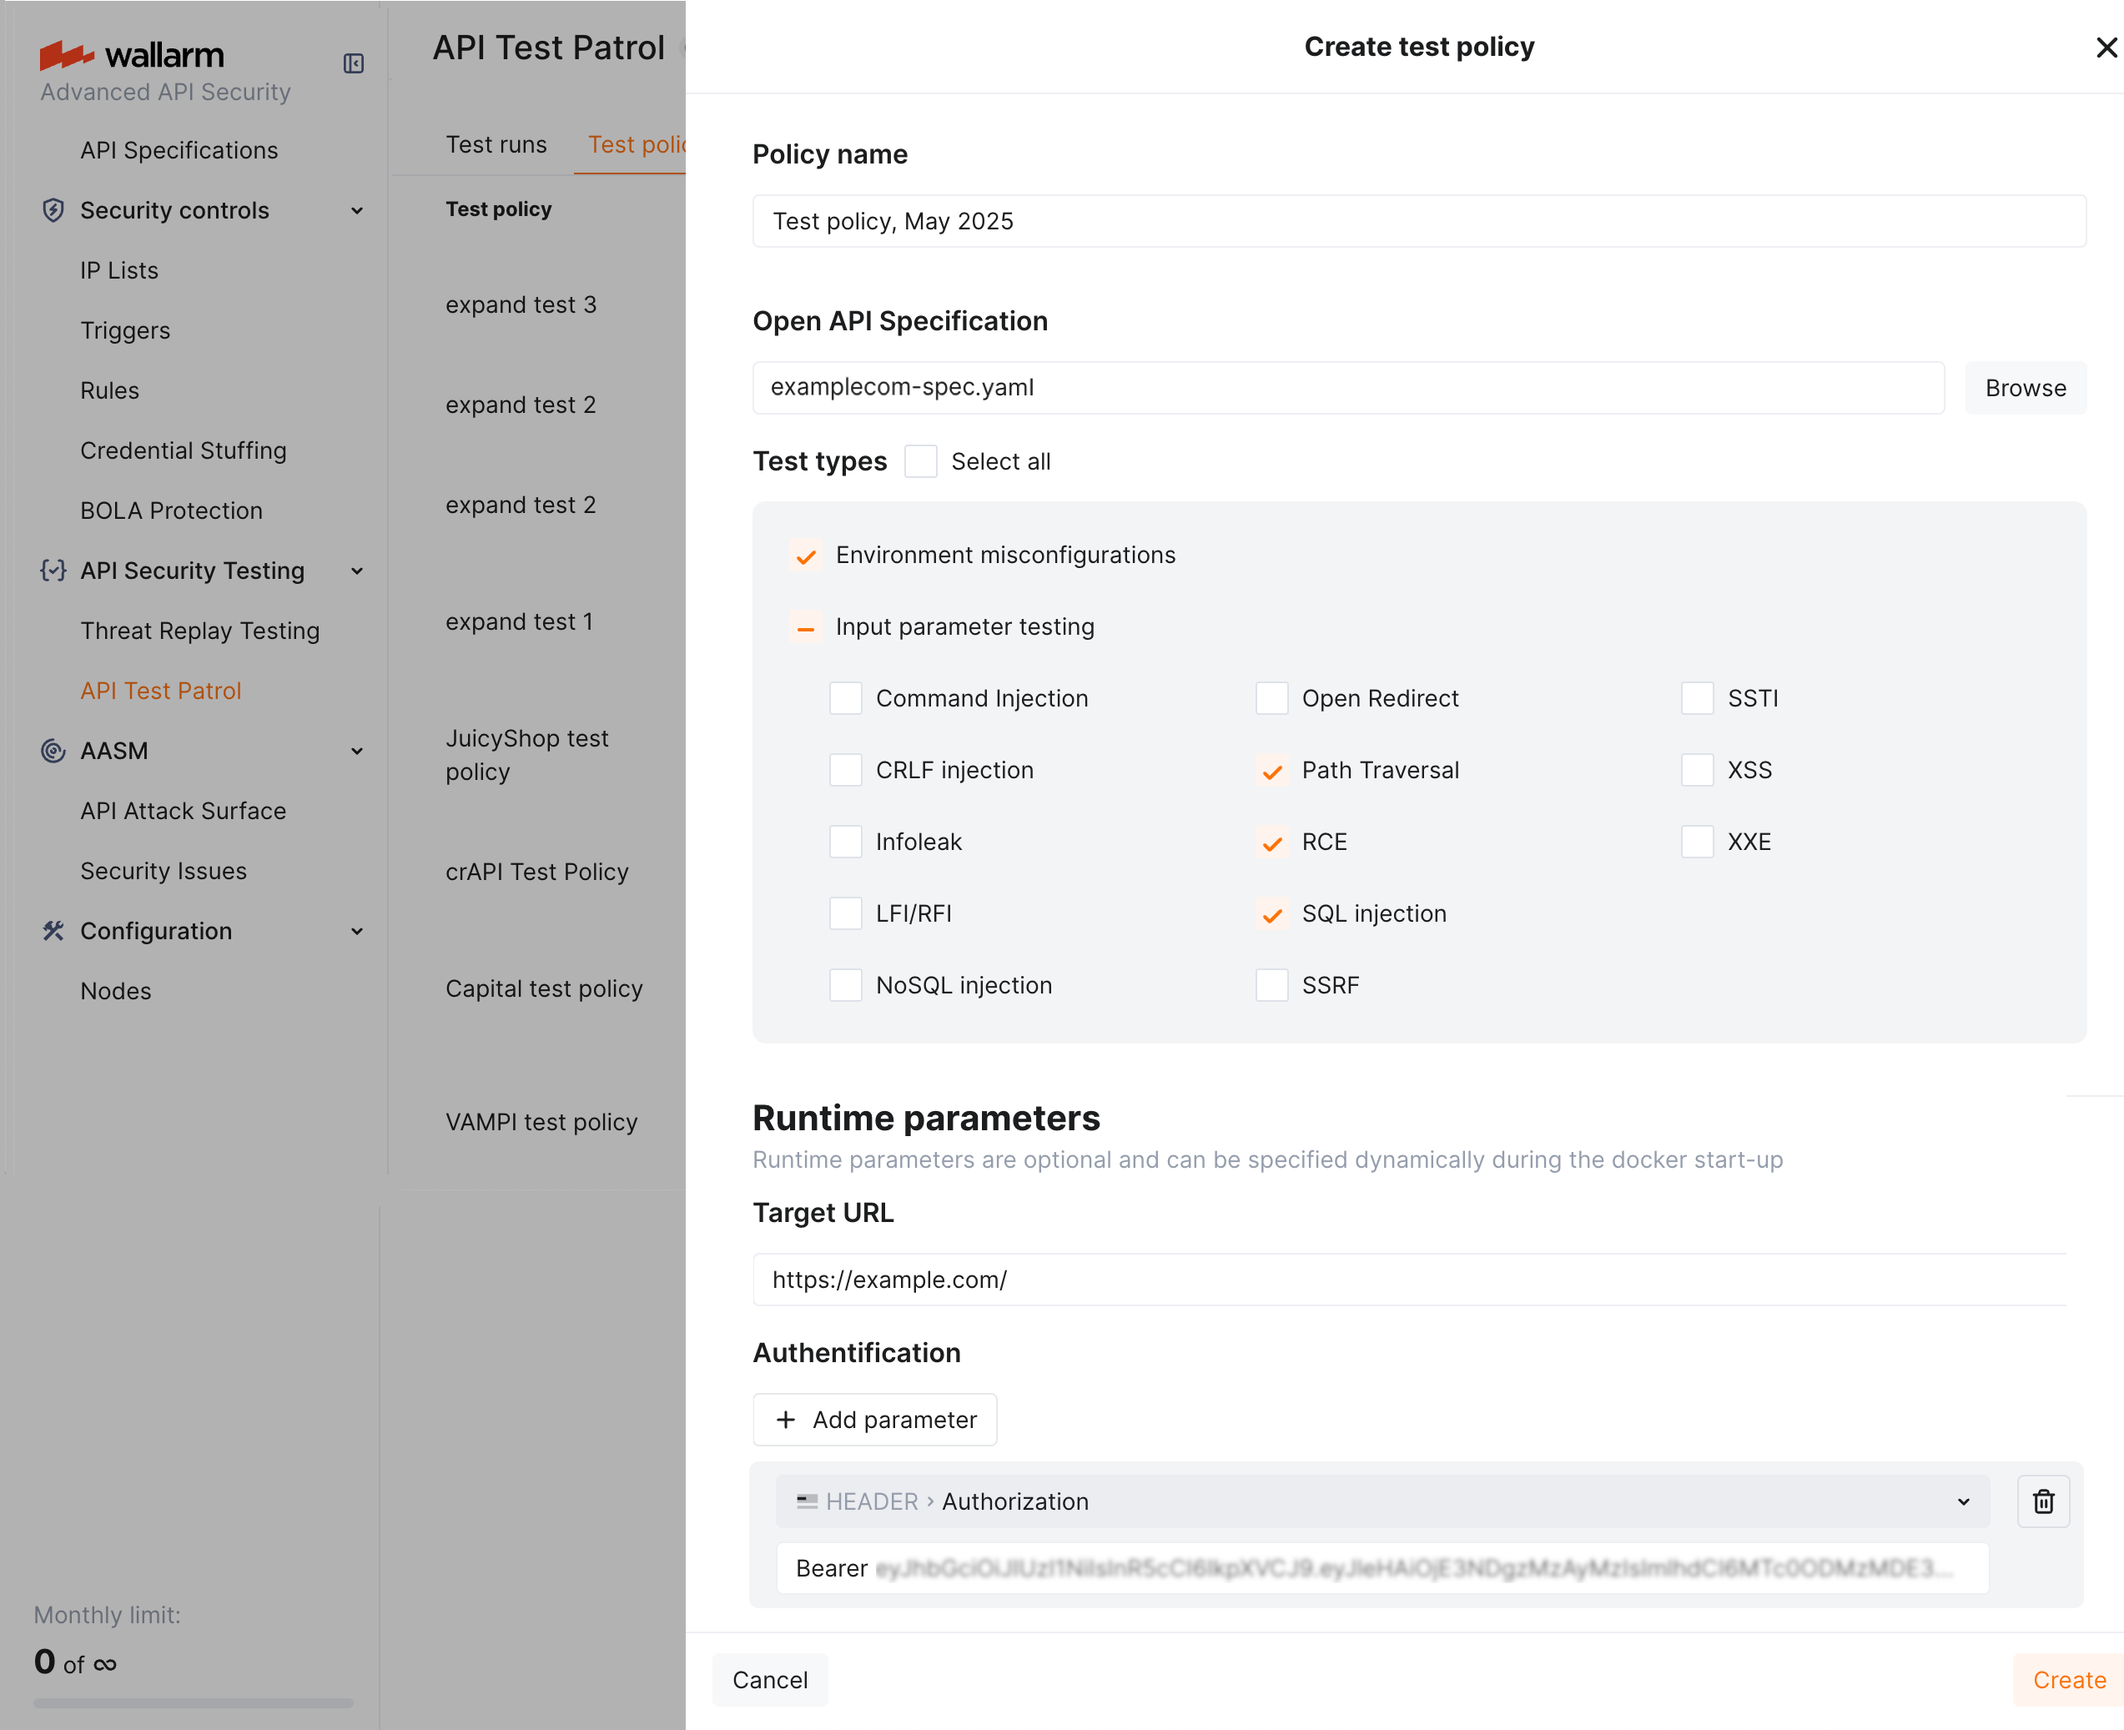
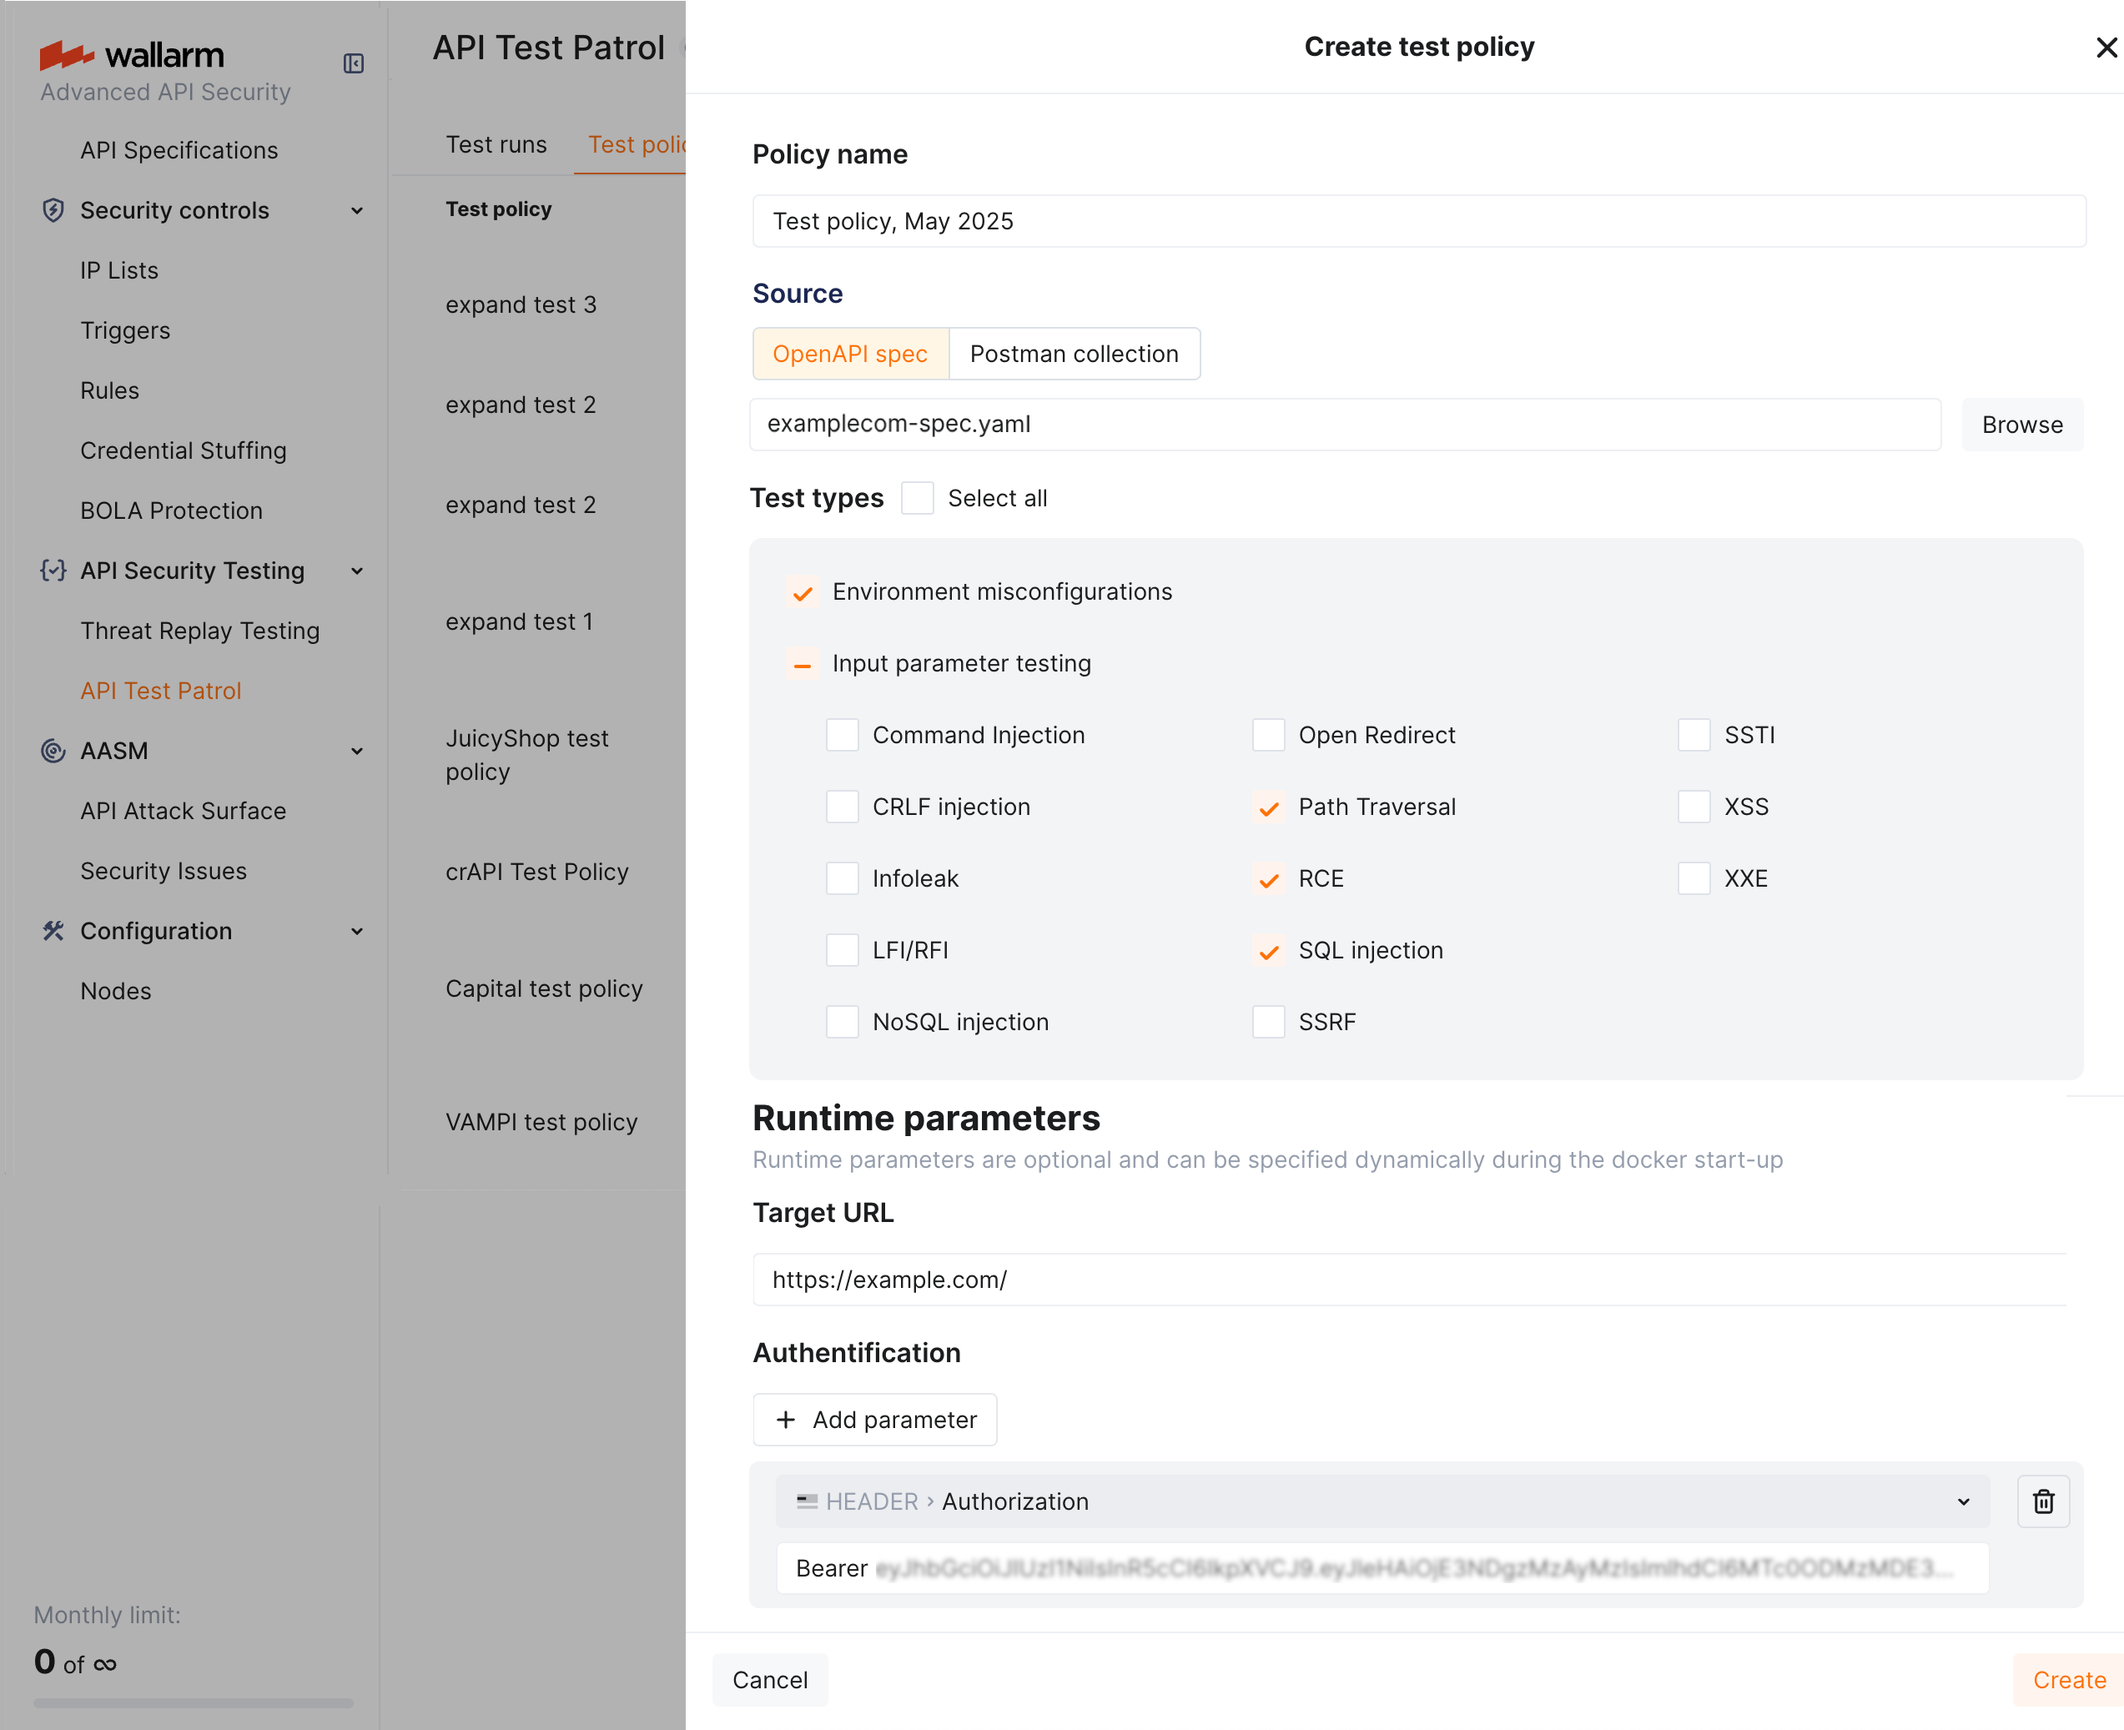
DOCS-3216 Patrol - Postman based testing

diff --git a/docs/latest/vulnerability-detection/api-test-patrol/setup.md b/docs/latest/vulnerability-detection/api-test-patrol/setup.md
@@ -11,7 +11,11 @@ API Test Patrol is disabled by default. To enable:
 
 ## Configure test policies
 
-Test policy defines persistently:
+You can configure test policy [based](overview.md#test-basis) on OpenAPI specification (OAS) or Postman collection.
+
+### OAS-based
+
+OpenAPI specification (OAS)-based test policy defines persistently:
 
 * Application's **OpenAPI specification**
 * Tests to run
@@ -27,12 +31,40 @@ Besides persistent parameters that are the same for any test run, each test poli
 To configure test policy:
 
 1. Go to Wallarm Console → **API Security Testing** → **API Test Patrol** → **Test policies**.
-1. Click **Add policy**, attach OpenApi specification file.
+1. Click **Add policy**, set **Source** to **OpenAPI spec**.
+1. Attach OpenApi specification file.
 1. Select [test types](overview.md#test-types) to run.
 1. Set **Target URL** (can be re-defined dynamically during each test run).
-1. Optionally, add other **Runtime parameters**.
+1. Optionally, add authentication **Runtime parameters**.
 
-    ![API Test Patrol - creating test policy](../../images/vulnerability-detection/apitp-policy-create.png)
+    ![API Test Patrol - creating test policy based on OpenAPI specification](../../images/vulnerability-detection/apitp-policy-create.png)
+
+### Postman collection-based
+
+Postman collection-based test policy defines persistently:
+
+* Application's **Postman collection**
+* **Postman environment file**
+* Test case selection is not currently supported for security testing based on Postman collections.
+
+Besides persistent parameters that are the same for any test run, each test policy may optionally include parameters that can be re-defined during each next test run (**Runtime parameters**). Re-defining the runtime parameters can be useful for embedding of Docker into the CI/CD pipelines:
+
+* Application's **Target URL** (defined in the Postman collection or environment files).
+
+    (although can be redefined during each run, some initial value is required)
+
+* Authentication parameters (defined in the Postman collection or environment files).
+
+To configure test policy:
+
+1. Go to Wallarm Console → **API Security Testing** → **API Test Patrol** → **Test policies**.
+1. Click **Add policy**, set **Source** to **Postman collection**.
+1. Attach Postman collection file.
+1. Attach Postman environment file.
+
+    ![API Test Patrol - creating test policy based on Postman collection](../../images/vulnerability-detection/apitp-policy-create-postman.png)
+
+### Editing existing policy
 
 You can edit previously created policies: while clicking policy itself opens its Docker command info, you can click the edit button to access the edit dialog:
 

diff --git a/docs/latest/vulnerability-detection/api-test-patrol/overview.md b/docs/latest/vulnerability-detection/api-test-patrol/overview.md
@@ -15,15 +15,22 @@ API Test Patrol capabilities:
 
 Use API Test Patrol by fulfilling the following steps:
 
-1. **Create test policy**: specify the target application, provide its OpenAPI specification, base URL, and select the tests to run.
+1. **Create test policy**: specify the target application, provide its OpenAPI specification or Postman collection, base URL, and select the tests to run.
 1. **Copy Docker command**: find your test policy on the **Test policies** tab, click it, and copy the provided Docker command.
 1. **Run and monitor**: start the agent with the command. Track progress and view results on the **Test runs** tab.
 
 ![API Test Patrol - how it works](../../images/vulnerability-detection/apitp-diagram.png)
 
+## Test basis
+
+API Test Patrol can base its tests on:
+
+* **OpenAPI specification (OAS)** - precise and machine-readable blueprint of your API allows API Test Patrol to build efficient and reliable test suite for your application.
+* **Postman collection** - if you use the [**Postman**](https://www.postman.com/) API design platform, its [*collections*](https://www.postman.com/product/collections/) organizing your API requests may be used by API Test Patrol to build tests as well.
+
 ## Test types
 
-API Test Patrol uses two types of tests to detect security issues:
+For OpenAPI specification-based tests, API Test Patrol uses two types of tests to detect security issues:
 
 * **Environment misconfiguration tests** check for vulnerabilities and misconfigurations in the environment or infrastructure the application and APIs run on (not the API logic). Examples:
 
